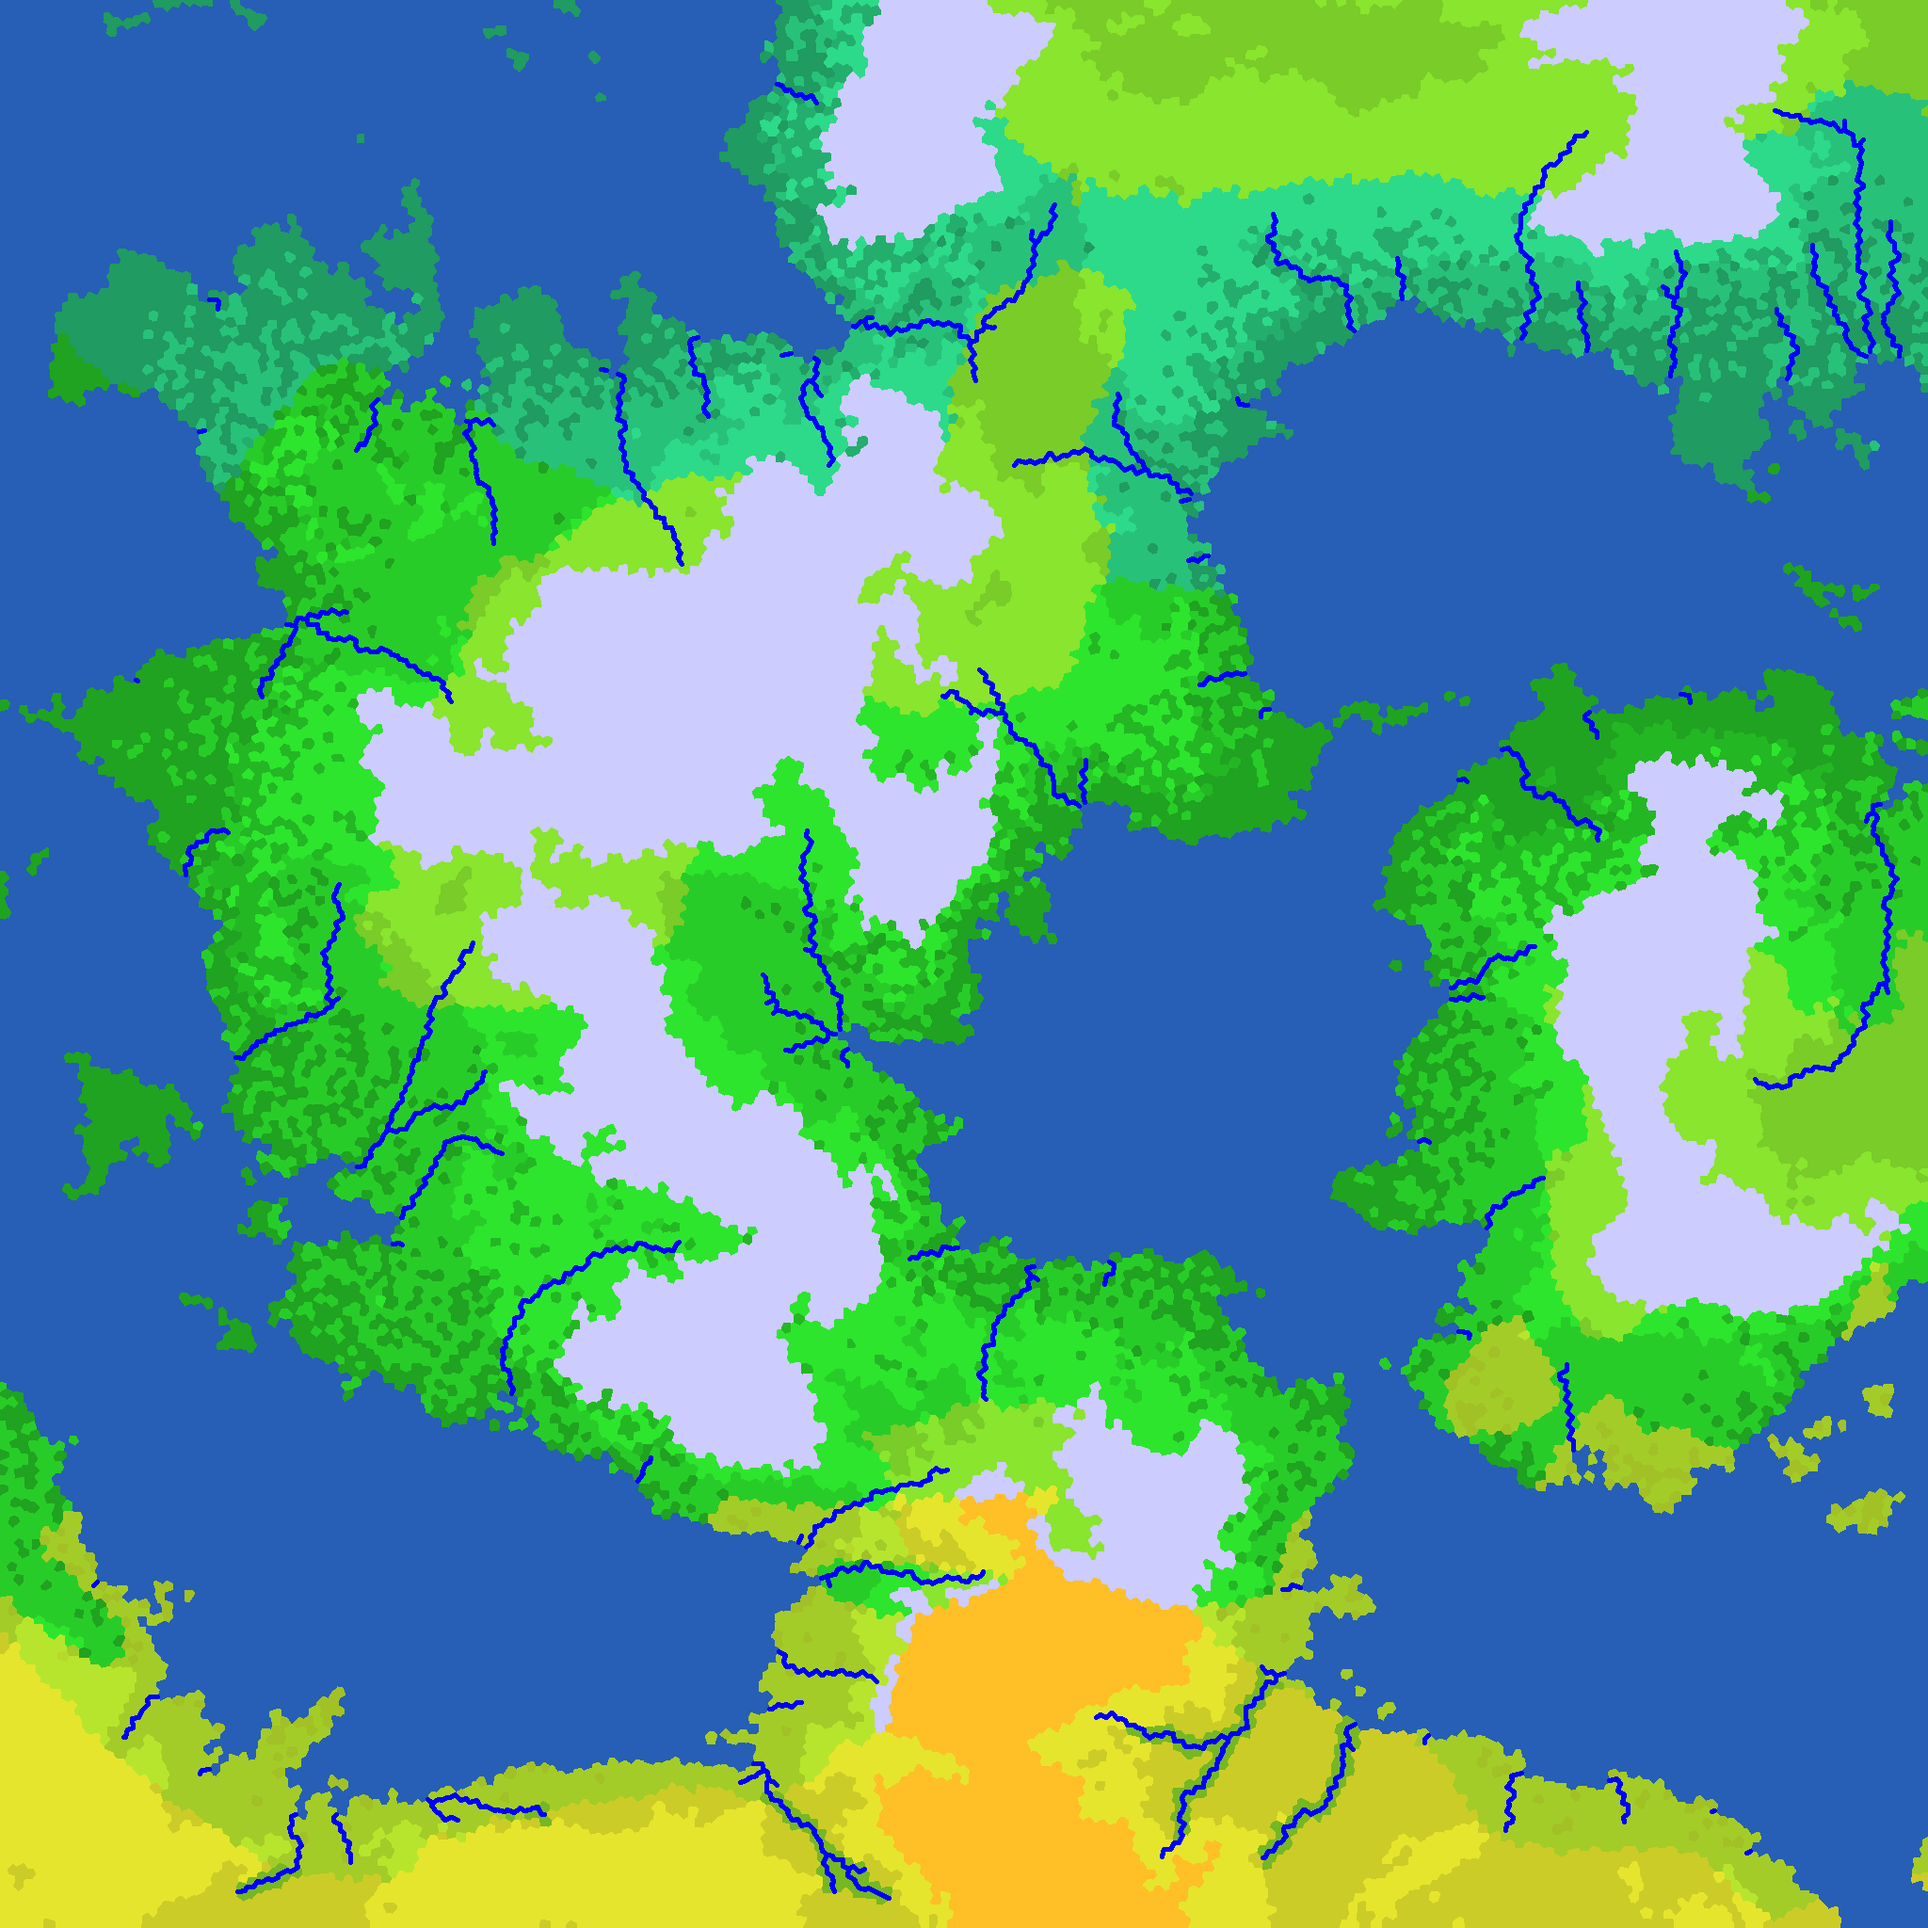
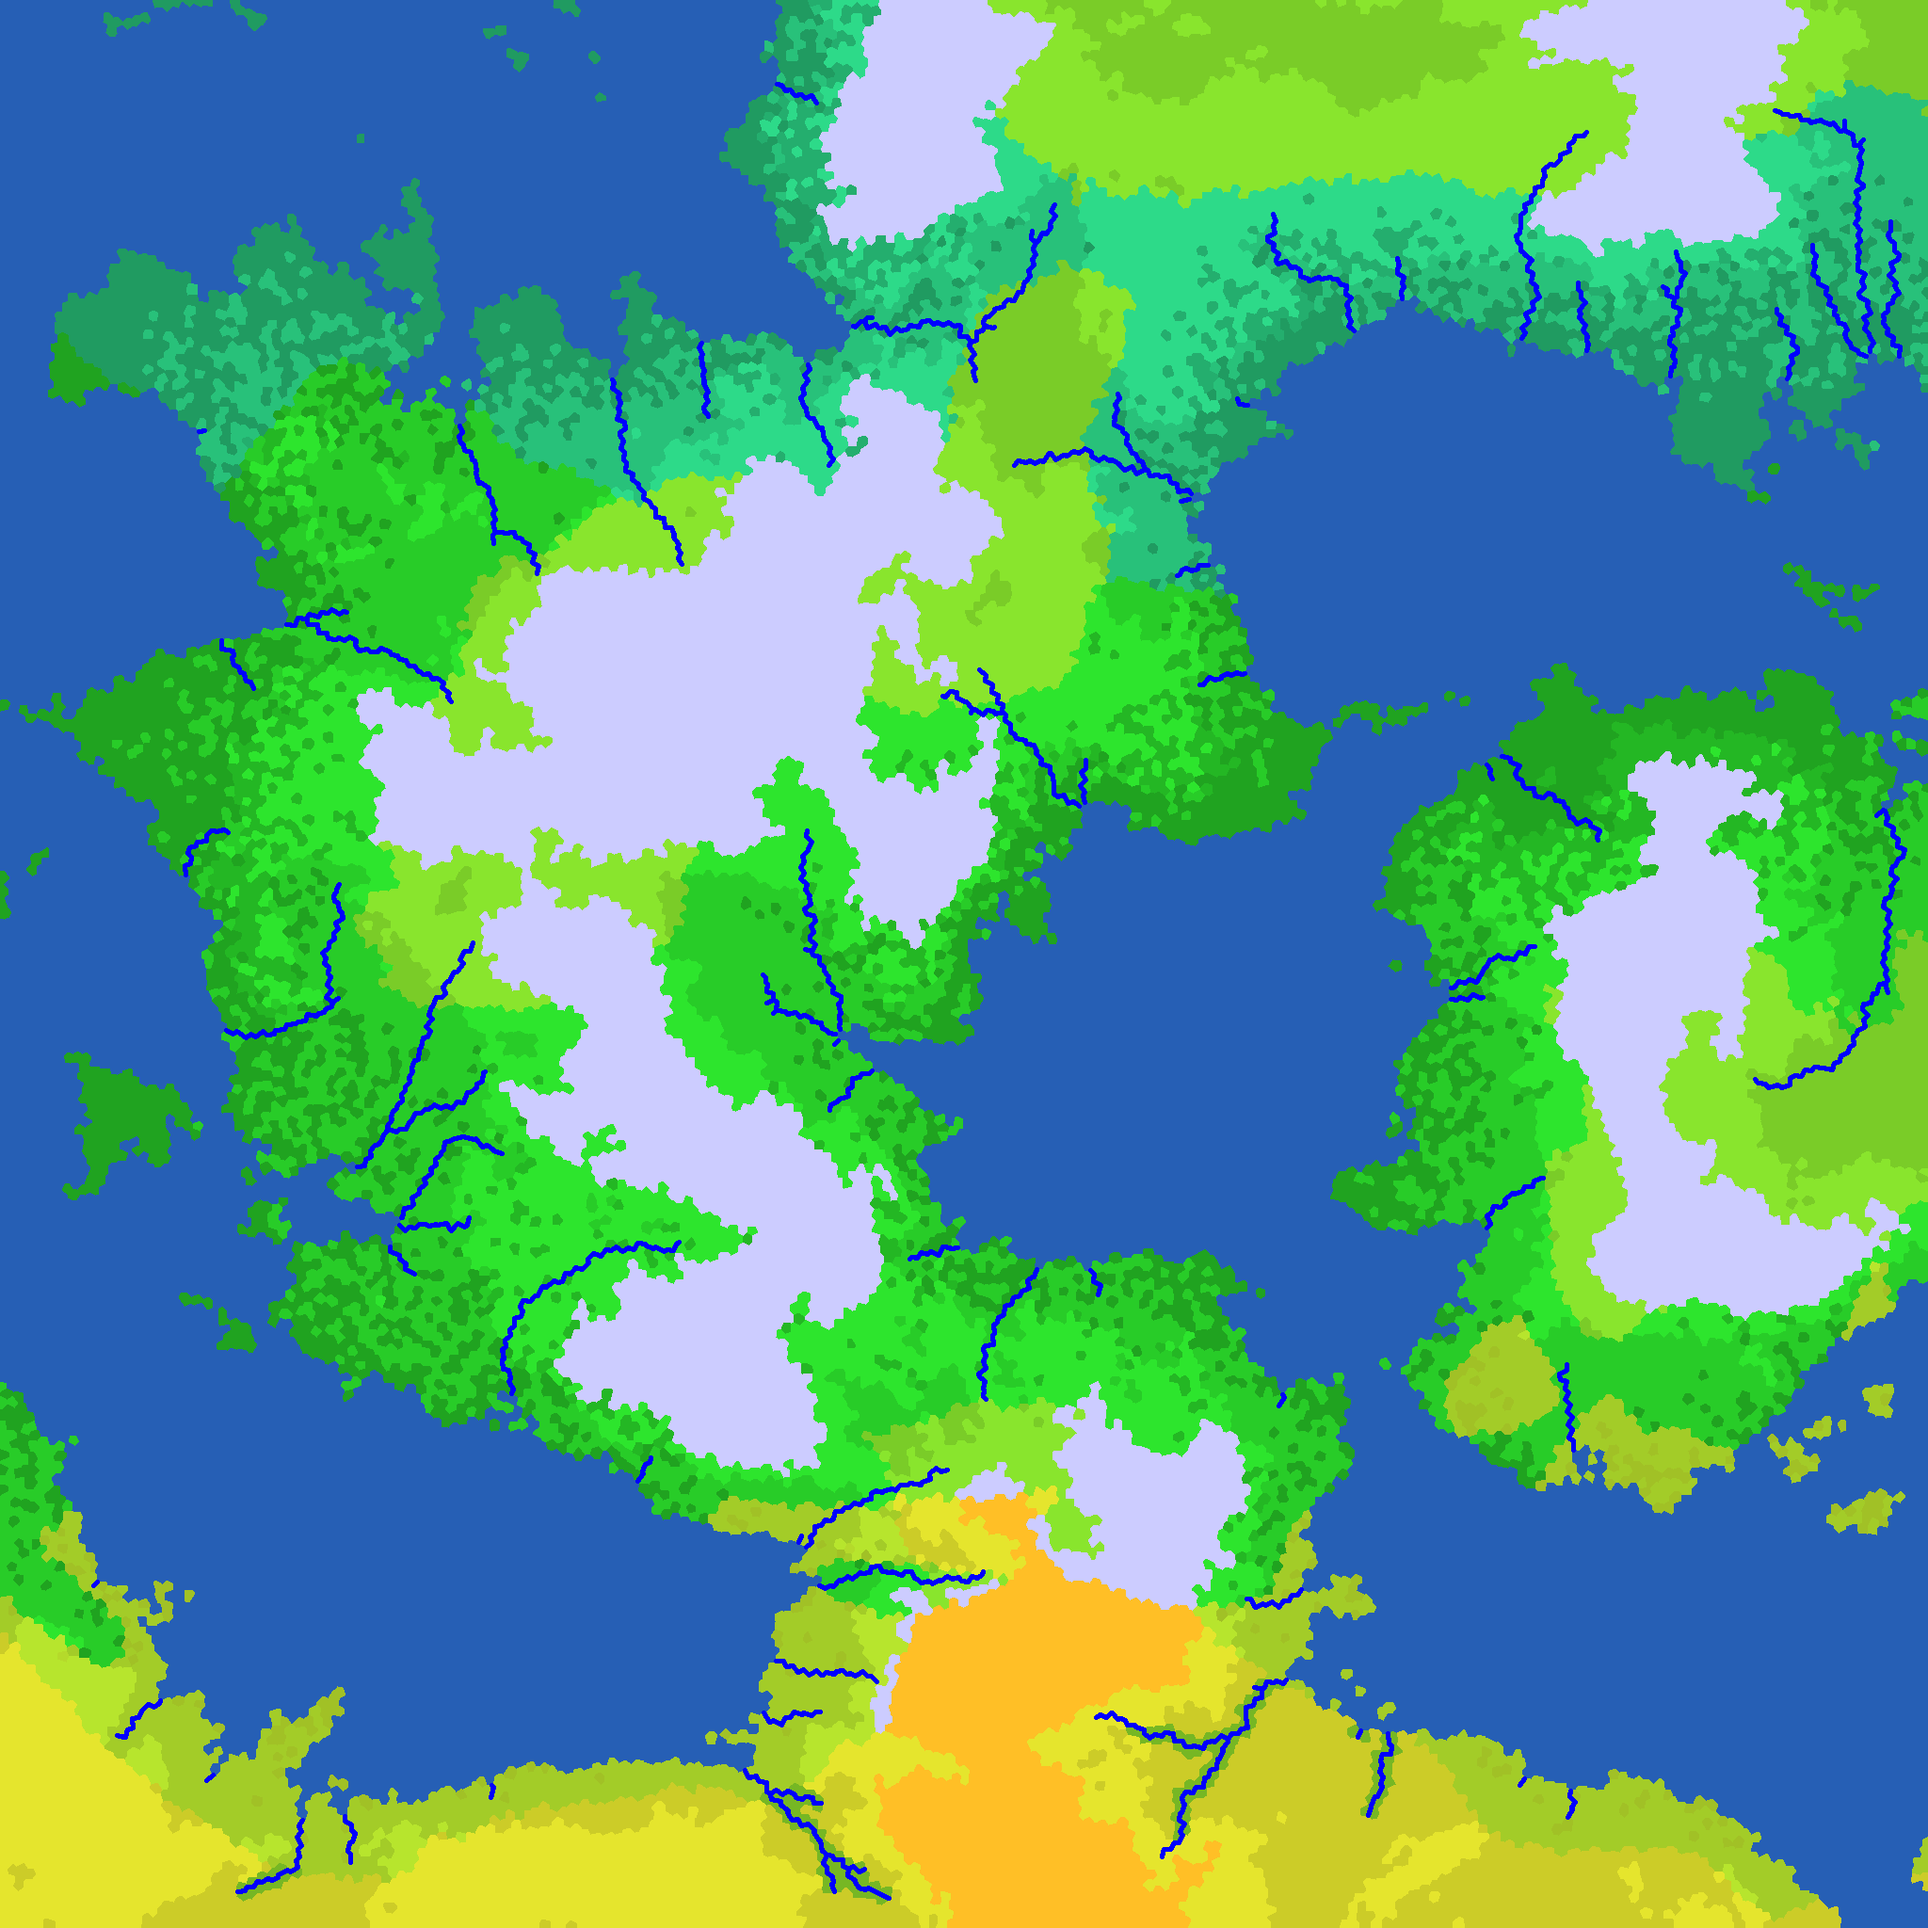
land triangulation

diff --git a/src/main.cpp b/src/main.cpp
@@ -233,6 +233,10 @@ void print_hold(const struct holding *hold)
 // TODO checkout seed: sdsd
 int main(int argc, char *argv[])
 {
+	struct CustomEdge {
+		std::pair<size_t, size_t> vertices;
+	};
+
 	printf("Name thy world: ");
 	std::string name;
 	std::cin >> name;
@@ -253,24 +257,70 @@ int main(int argc, char *argv[])
 	print_cultures(&worldmap);
 
 	// triangulate worldmap
+	struct byteimage image = blank_byteimage(3, 2048, 2048);
 	std::random_device rd;
 	std::mt19937 gen(44);
 
 	using Triangulation = CDT::Triangulation<float>;
 	Triangulation cdt = Triangulation(CDT::FindingClosestPoint::ClosestRandom, 10);
 
+	unsigned char red[] = {255, 0, 0};
 	std::vector<glm::vec2> points;
+	std::unordered_map<uint32_t, size_t> umap;
+	std::unordered_map<uint32_t, bool> marked;
+	size_t index = 0;
 	for (const auto &c : worldmap.corners) {
-		if (c.coast == true || c.frontier == true) {
+		bool notfrontier = false;
+		for (const auto &adj : c.adjacent) {
+			if (adj->wall == false && adj->frontier == true) { notfrontier = true; }
+		}
+		marked[c.index] = false;
+		if (c.coast == true) {
 			points.push_back(c.position);
+			umap[c.index] = index++;
+			marked[c.index] = true;
+		} else if (c.frontier == true) {
+			bool land = false;
+			for (const auto &t : c.touches) {
+				if (t->land) { land = true; }
+			}
+			if (land == true && c.wall == false) {
+				points.push_back(c.position);
+				umap[c.index] = index++;
+				marked[c.index] = true;
+			}
+		} else if (c.wall == true) {
+			points.push_back(c.position);
+			umap[c.index] = index++;
+			marked[c.index] = true;
+		}
+		if (marked[c.index] == false && c.frontier == true && c.wall == true && notfrontier == true) {
+			points.push_back(c.position);
+			umap[c.index] = index++;
+			marked[c.index] = true;
 		}
 	}
-	/*
-	std::uniform_real_distribution<float> d(0.f, 512.f);
-	for (int i = 0; i < 10; i++) {
-		points.push_back(glm::vec2(d(gen), d(gen)));
+
+	std::vector<CustomEdge> edges;
+	for (const auto &b : worldmap.borders) {
+		size_t left = umap[b.c0->index];
+		size_t right = umap[b.c1->index];
+		if (marked[b.c0->index] == true && marked[b.c1->index] == true) {
+		if (b.coast == true || b.wall == true) {
+			struct CustomEdge edge;
+			edge.vertices = std::make_pair(left, right);
+			edges.push_back(edge);
+			draw_line(b.c0->position.x, b.c0->position.y, b.c1->position.x, b.c1->position.y, image.data, image.width, image.height, image.nchannels, red);
+		} else if (b.frontier == true) {
+			if (b.t0->land == true && b.t1->land == true) {
+				struct CustomEdge edge;
+				edge.vertices = std::make_pair(left, right);
+				edges.push_back(edge);
+				draw_line(b.c0->position.x, b.c0->position.y, b.c1->position.x, b.c1->position.y, image.data, image.width, image.height, image.nchannels, red);
+			}
+		}
+		}
 	}
-	*/
 
 	cdt.insertVertices(
 		points.begin(),
@@ -278,9 +328,16 @@ int main(int argc, char *argv[])
 		[](const glm::vec2& p){ return p[0]; },
 		[](const glm::vec2& p){ return p[1]; }
 	);
-	cdt.eraseSuperTriangle();
+	cdt.insertEdges(
+		edges.begin(),
+		edges.end(),
+		[](const CustomEdge& e){ return e.vertices.first; },
+		[](const CustomEdge& e){ return e.vertices.second; }
+	);
+	//cdt.eraseSuperTriangle();
+	cdt.eraseOuterTrianglesAndHoles();
+	//cdt.eraseOuterTriangles();
 
-	struct byteimage image = blank_byteimage(3, 2048, 2048);
 
 	unsigned char color[3];
 

diff --git a/src/worldmap.cpp b/src/worldmap.cpp
@@ -212,6 +212,7 @@ void Worldmap::gen_diagram(unsigned int maxcandidates)
 			.frontier = false,
 			.coast = false,
 			.river = false,
+			.wall = false,
 			.depth = 0
 		};
 
@@ -226,6 +227,7 @@ void Worldmap::gen_diagram(unsigned int maxcandidates)
 		borders[index].coast = false;
 		borders[index].river = false;
 		borders[index].frontier = false;
+		borders[index].wall = false;
 		if (edge.c0 != nullptr) {
 			borders[index].t0 = &tiles[edge.c0->index];
 		} else {
@@ -297,12 +299,25 @@ void Worldmap::gen_relief(const struct byteimage *heightmap)
 	for (auto &b : borders) {
 		// use XOR to determine if land is different
 		b.coast = b.t0->land ^ b.t1->land;
-		b.c0->coast = b.coast;
-		b.c1->coast = b.coast;
 
 		if (b.coast == true) {
+			b.c0->coast = b.coast;
+			b.c1->coast = b.coast;
 			b.t0->coast = b.coast;
 			b.t1->coast = b.coast;
+		}
+	}
+
+	// find mountain borders
+	for (auto &b : borders) {
+		if (b.frontier && (b.t0->relief == HIGHLAND || b.t1->relief == HIGHLAND)) {
+			b.wall = true;
+		} else {
+			b.wall = (b.t0->relief == HIGHLAND) ^ (b.t1->relief == HIGHLAND);
+		}
+		if (b.wall) {
+			if (b.c0->wall == false) { b.c0->wall = true; }
+			if (b.c1->wall == false) { b.c1->wall = true; }
 		}
 	}
 }

diff --git a/src/worldmap.h b/src/worldmap.h
@@ -36,6 +36,7 @@ struct border {
 	bool frontier;
 	bool coast;
 	bool river;
+	bool wall;
 };
 
 struct corner {
@@ -48,6 +49,7 @@ struct corner {
 	bool frontier;
 	bool coast;
 	bool river;
+	bool wall;
 	int depth;
 };
 
